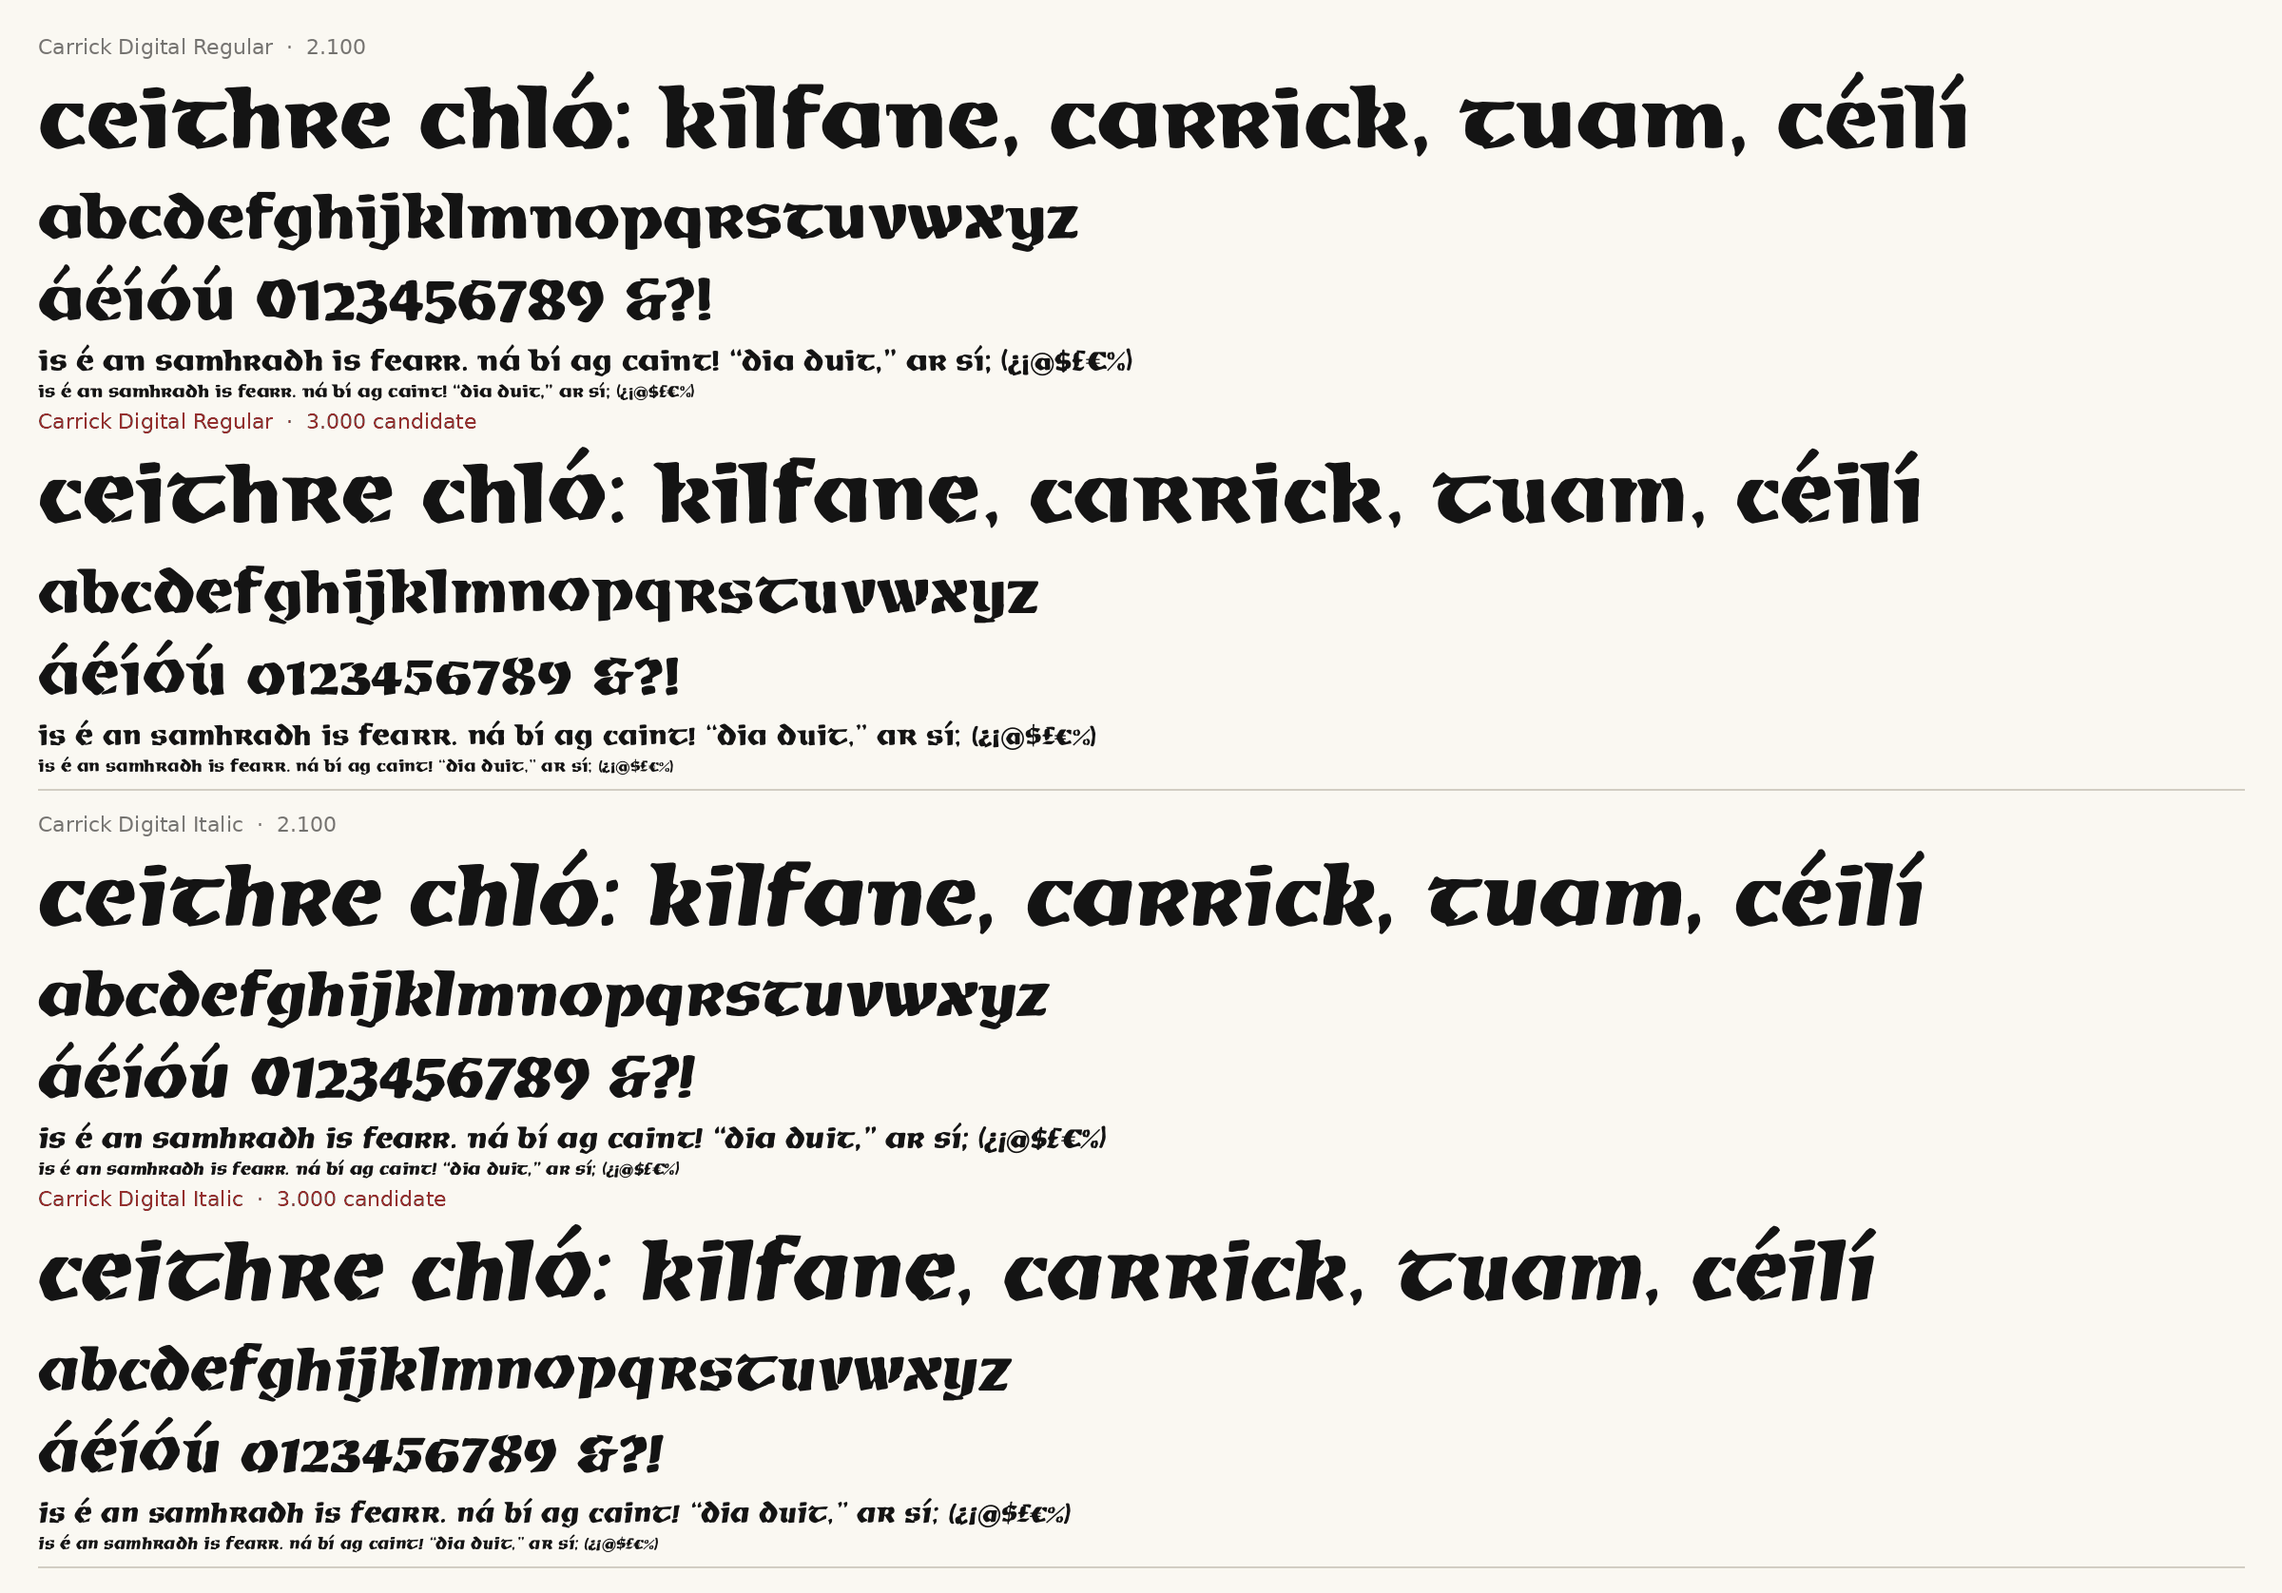
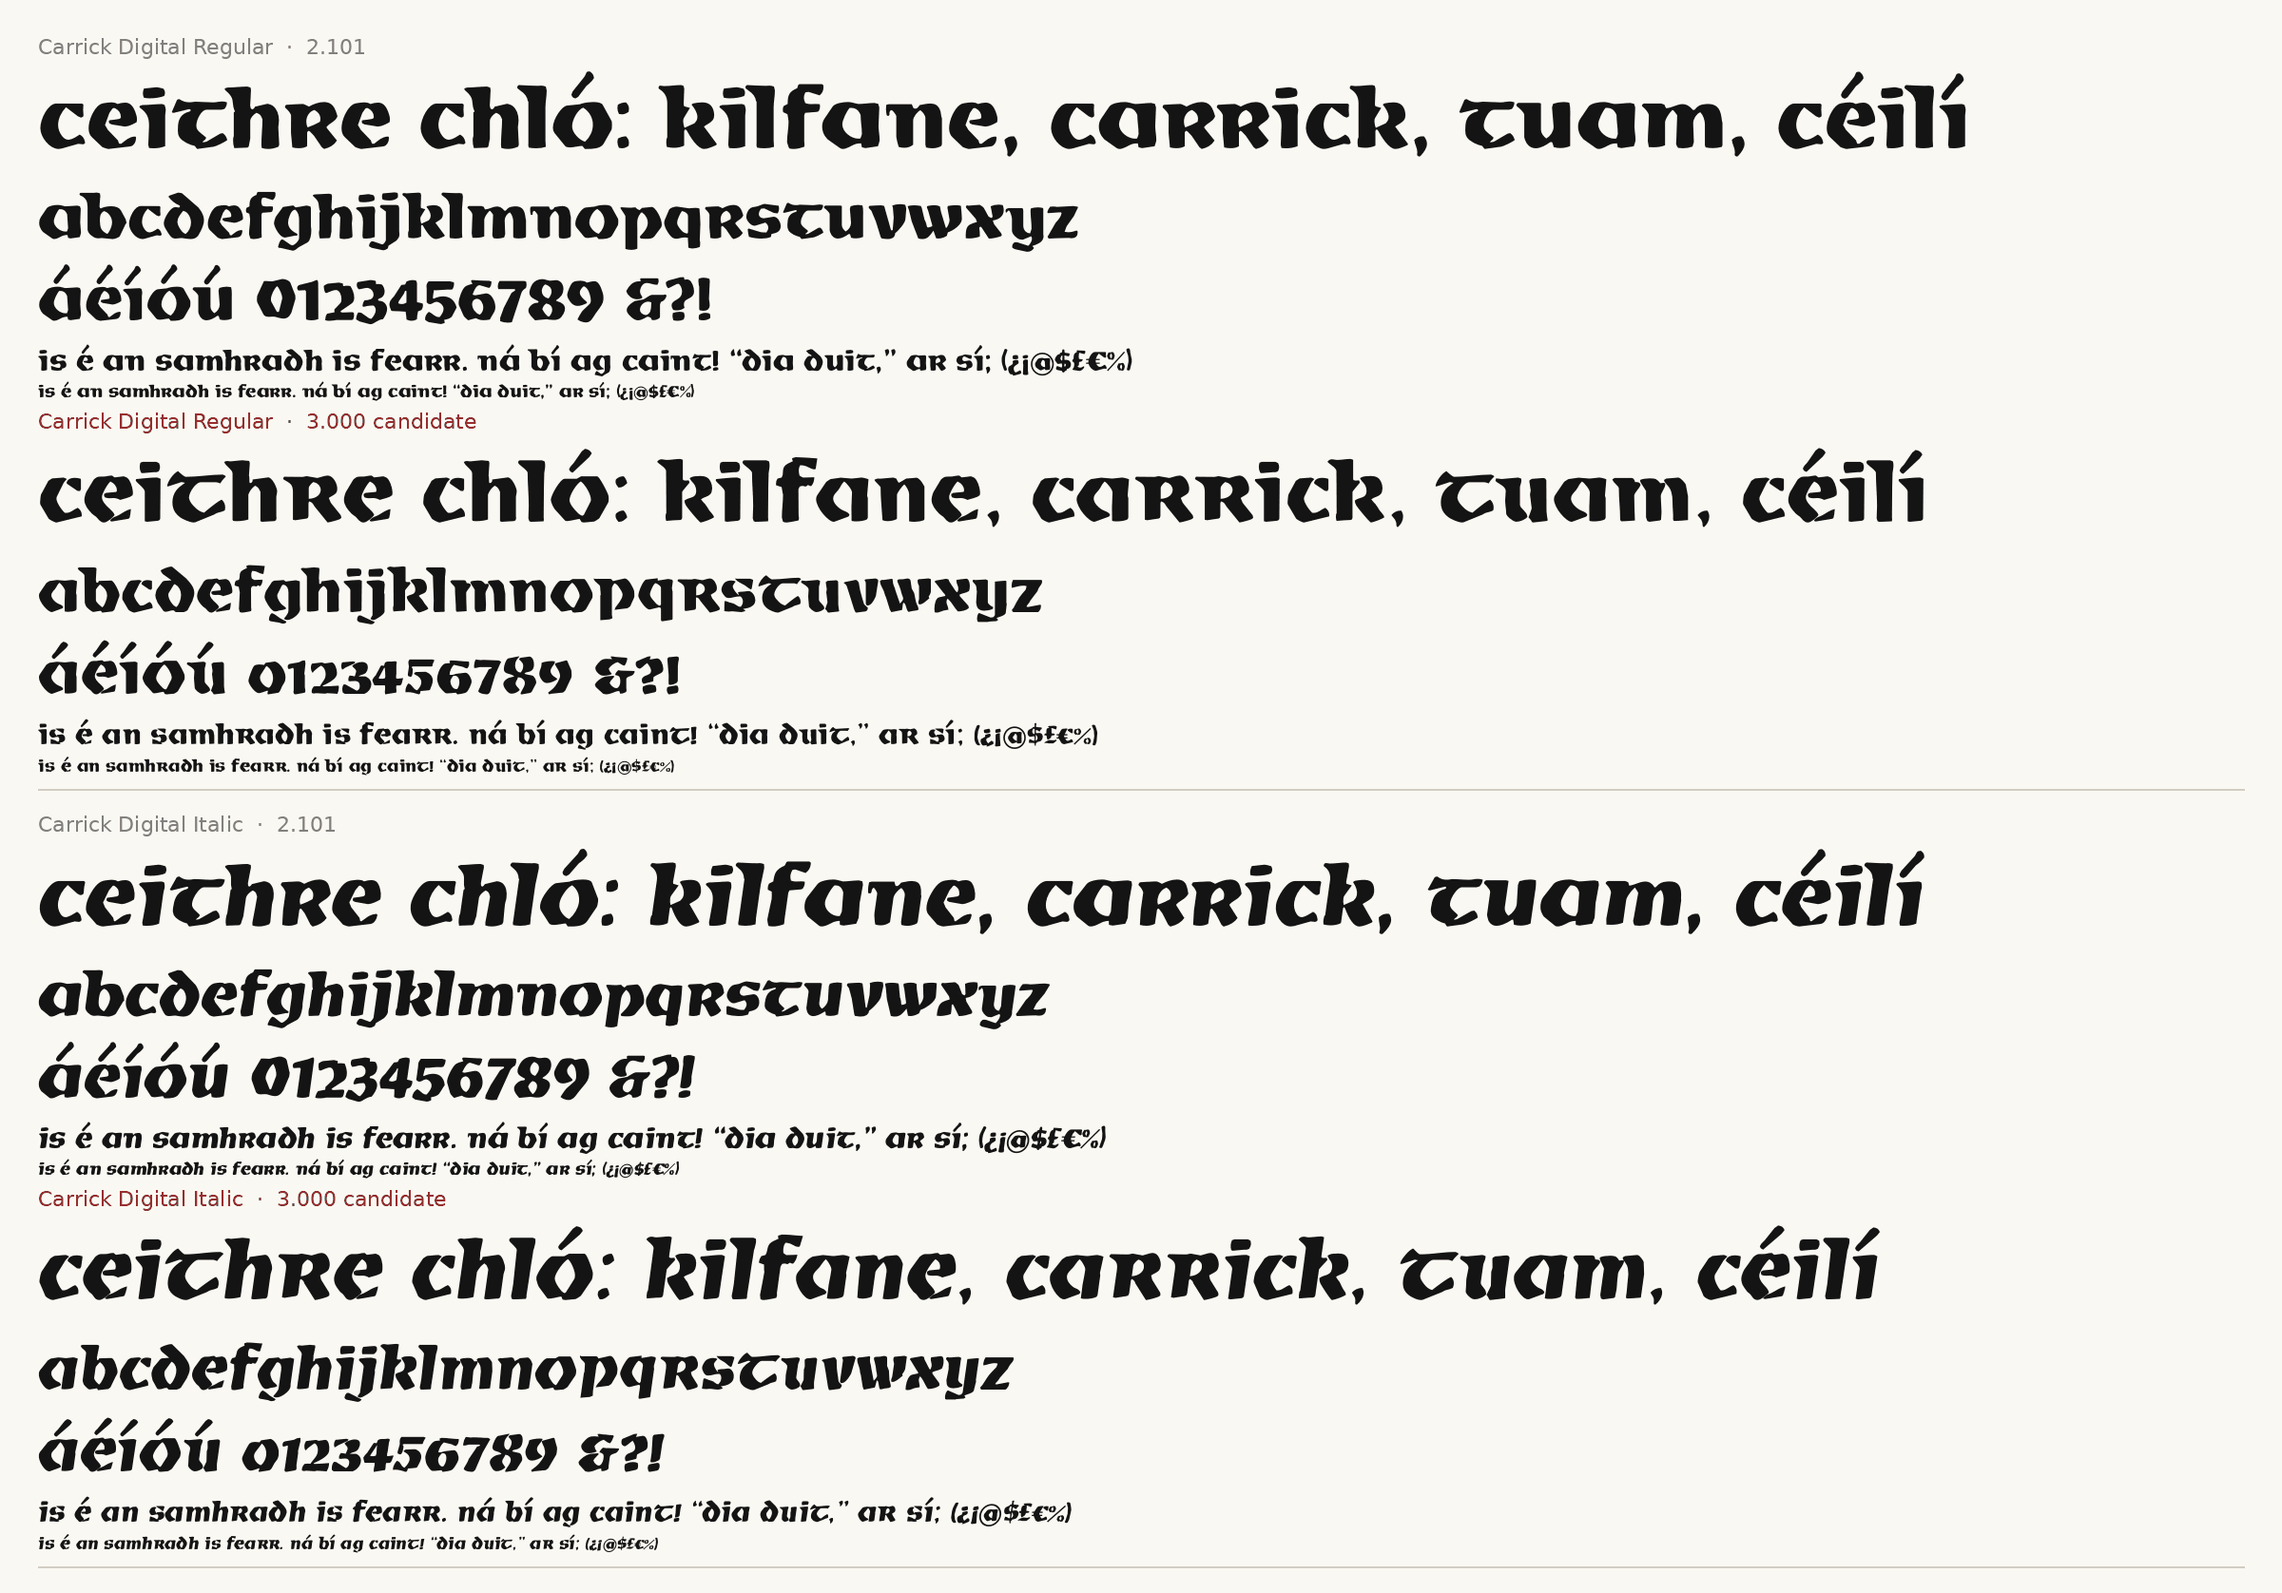
Release candidate: Carrick in the sheet frame; one count for every row
The candidate's Carrick is Study 3 as rebuilt in the sheet's own frame: 26%
of its ink moves from 2.010 and the lowercase advance goes 659 -> 636. OTS
passes on all 48 candidate files, Carrick's pairs have 0 collisions (110,224
per style) and the release checks fail only on the version. The Italic flags
the small 4 of the fractions as well as the pieces of ©, ™ and ¾.

scripts/candidate_change.py measures every row of the readiness table the
same way (Kilfane's 18% was 17% by that count, Céilí's advance 614).

Claude-Session: https://claude.ai/code/session_01RSExFUjGdXcKon7jzBpkZB

diff --git a/scripts/candidate_change.py b/scripts/candidate_change.py
@@ -1,0 +1,73 @@
+"""How far the release candidate moves from the release, per face (research/release-readiness.md).
+
+usage: python scripts/candidate_change.py [--release fonts/otf] [--candidate build/candidate/fonts]
+
+For each Regular: the median, over the code points both fonts map to glyphs with ink, of the share
+of the release glyph's ink that differs in the candidate (both drawn at 2 units per pixel, aligned
+at the left of their ink so spacing changes don't count), and the mean advance of a to z. It
+measures how far the release moves, not authenticity.
+"""
+import argparse, glob, os
+import numpy as np
+from fontTools.ttLib import TTFont
+from fontTools.pens.basePen import BasePen
+from fontTools.pens.boundsPen import BoundsPen
+from PIL import Image, ImageDraw
+
+
+class Polygons(BasePen):
+    """Each contour as a polygon (curves flattened to 8 segments)."""
+    def __init__(self, gs):
+        super().__init__(gs); self.contours, self.cur = [], []
+
+    def _moveTo(self, p): self.cur = [p]
+    def _lineTo(self, p): self.cur.append(p)
+    def _curveToOne(self, a, b, c):
+        p0 = np.array(self.cur[-1])
+        for t in np.linspace(0, 1, 9)[1:]:
+            self.cur.append(tuple((1 - t) ** 3 * p0 + 3 * (1 - t) ** 2 * t * np.array(a) + 3 * (1 - t) * t * t * np.array(b) + t ** 3 * np.array(c)))
+    def _closePath(self): self.contours.append(self.cur); self.cur = []
+
+
+def ink(gs, name, x0, units=2):
+    """The glyph's ink at `units` font units per pixel, its left ink edge at x = 20 px (even-odd fill)."""
+    pen = Polygons(gs); gs[name].draw(pen)
+    acc = np.zeros((800, 700), bool)
+    for c in pen.contours:
+        if len(c) < 3:
+            continue
+        im = Image.new('1', (700, 800), 0)
+        ImageDraw.Draw(im).polygon([((x - x0) / units + 20, (1000 - y) / units) for x, y in c], fill=1)
+        acc ^= np.array(im)
+    return acc
+
+
+def change(release, candidate):
+    a, b = TTFont(release), TTFont(candidate)
+    ga, gb, ca, cb = a.getGlyphSet(), b.getGlyphSet(), a.getBestCmap(), b.getBestCmap()
+    shares = []
+    for cp in sorted(set(ca) & set(cb)):
+        ba, bb = BoundsPen(ga), BoundsPen(gb)
+        ga[ca[cp]].draw(ba); gb[cb[cp]].draw(bb)
+        if ba.bounds and bb.bounds:
+            ma, mb = ink(ga, ca[cp], ba.bounds[0]), ink(gb, cb[cp], bb.bounds[0])
+            shares.append((ma ^ mb).sum() / max(ma.sum(), 1))
+    lc = [c for c in 'abcdefghijklmnopqrstuvwxyz' if ord(c) in ca and ord(c) in cb]
+    advance = lambda f, cm: float(np.mean([f['hmtx'][cm[ord(c)]][0] for c in lc]))
+    return float(np.median(shares)), advance(a, ca), advance(b, cb)
+
+
+def main():
+    ap = argparse.ArgumentParser()
+    ap.add_argument('--release', default='fonts/otf')
+    ap.add_argument('--candidate', default='build/candidate/fonts')
+    args = ap.parse_args()
+    for rel in sorted(glob.glob(os.path.join(args.release, '*-Regular.otf'))):
+        cand = os.path.join(args.candidate, os.path.basename(rel))
+        if os.path.exists(cand):
+            share, before, after = change(rel, cand)
+            print(f'{os.path.basename(rel)}: median ink change {100 * share:.0f}%, lowercase mean advance {before:.0f} -> {after:.0f}')
+
+
+if __name__ == '__main__':
+    main()

diff --git a/research/release-readiness.md b/research/release-readiness.md
@@ -18,14 +18,16 @@ derives them from the flyer.
 
 | Face | Study and traces | Traced from | Kept from the flyer | Median ink change from 2.010 | Lowercase mean advance |
 |---|---|---|---|---:|---:|
-| Kilfane | Study 4, `kilfane-judgement` (on round 2 and Study 3) | N516 alphabet specimen; N517 means for 16 capitals; N47 for v, w | loose-mark cluster | 18% | 507 → 501 |
-| Carrick | Study 3, `round-06` (on round 5) | N514 production-sheet means for b to o; N513 for a, p to z, figures, marks | the lower paired mark | 29% | 659 → 634 |
+| Kilfane | Study 4, `kilfane-judgement` (on round 2 and Study 3) | N516 alphabet specimen; N517 means for 16 capitals; N47 for v, w | loose-mark cluster | 17% | 507 → 501 |
+| Carrick | Study 3, `round-06` (on round 5) | N514 production-sheet means for b to o, in the sheet's own frame; N513 for a, p to z, figures, marks | the lower paired mark | 26% | 659 → 636 |
 | Tuam Uncial | Study 3, `tuam-judgement` (on round 3) | N46 and N45 averaged in N46's frame; cuts confirmed on the S53912 production sheet (Bolger fig. 206) | none | 9% | 850 → 850 |
-| Céilí | Study 3, `round-04` | N46; N45 punctuation | the loose dots (DOTS) | 18% | 611 → 616 |
+| Céilí | Study 3, `round-04` | N46; N45 punctuation | the loose dots (DOTS) | 18% | 611 → 614 |
 
-"Ink change" is the share of each glyph's ink that differs from 2.010 at 2 units per
-pixel, with glyphs aligned at the left of their ink so spacing changes don't count. It
-measures how far the release moves, not authenticity. The sources' own limitations are in each
+"Ink change" is the median, over the code points both map, of the share of each glyph's ink
+that differs from 2.010 (outlines unchanged in 2.101) at 2 units per pixel, with glyphs aligned
+at the left of their ink so spacing changes don't count; the advance is the mean of a to z. Both
+come from `scripts/candidate_change.py`, one count for every row. They measure how far the
+release moves, not authenticity. The sources' own limitations are in each
 round's `evidence.json`: N46/N45 and N513/N47 share reproduction history, so their
 agreement is not independent confirmation.
 
@@ -36,7 +38,10 @@ the candidate, style by style.
 
 Carrick's candidate is [Study 3](round-06/README.md): b to o from the averaged N514 production
 impressions, each letter's pieces and counters read from its impressions (b's bowl closes and m's
-strokes stand apart, as every production sheet prints them), x and y separated on N513.
+strokes stand apart, as every production sheet prints them), x and y separated on N513. The letters
+keep the sheet's own geometry: Letraset's spacing marks give each one its upright and its line, so
+they no longer take N513's slants (l's 5.5° lean among them), and n and o no longer float above the
+baseline. As for Kilfane, the candidate sits Carrick's slanted stem feet on the baseline.
 
 Tuam's candidate is [Study 3](tuam-judgement/README.md), the judgement pass: each glyph traced from the mean
 of the flyer (N46, a blurred photocopy) and the catalogue (N45, a clean offset print), so N46's ragged edges
@@ -48,8 +53,8 @@ forms); and the braces drawn with a point. The lowercase advance is 854 by the s
 Kilfane's candidate is [Study 4](kilfane-judgement/README.md), the judgement pass: capitals from
 the production sheets held to N516's frame, T, U, k and l traced from N516, and the e's notch eased
 (a recorded judged edit). The candidate also sits Kilfane's square stem feet (F, P, V, 4, 7, the
-roman alternates) on the baseline instead of 8 units below it (`FLAT_FOOT_WIDENING`, Kilfane only:
-the other faces' feet have not been reviewed).
+roman alternates) on the baseline instead of 8 units below it (`FLAT_FOOT_WIDENING`, Kilfane and
+Carrick: Tuam's and Céilí's feet have not been reviewed).
 
 ## The 2026 styles (modern extensions)
 
@@ -83,7 +88,7 @@ Topology after the fixes (`scripts/topo.py`, pieces and counters per glyph):
 | Kilfane Bold → Bold Italic | none | (Study 2 flagged ŋ: a slit under 4 units; gone with Study 4.) |
 | Céilí Regular → Bold | 6 | Joins by design (`BOLD['ceili']['joins']`), as in 2.010. Accept. |
 | Céilí Regular → Italic, Bold → Bold Italic | none | |
-| Carrick Regular → Italic | ©, ™, ¾ | At their small size the hairline gaps between the pieces of c, m and 3 (c and m now drawn from the production sheets) are a few units wide and close under the slope; invisible at any size. Accept. |
+| Carrick Regular → Italic | ©, ™, ¼, ¾ | At their small size the hairline gaps between the pieces of c and m (drawn from the production sheets) are a few units wide and close under the slope; the small 4 of the fractions keeps a barely open counter, as it does in 2.101's Italic. Invisible at text sizes. Accept. |
 | Tuam Regular → Italic | @, ˚ | @ also flags in 2.010: the a inside it nearly touches the ring (necks of 8 units). The spacing ring ˚ (U+02DA) loses its counter in the Italic, as in the released 2.101 Italic; the combining ring and å keep theirs. The braces, drawn with a point since Study 3, no longer flag. |
 
 ## Checks run on the candidate
